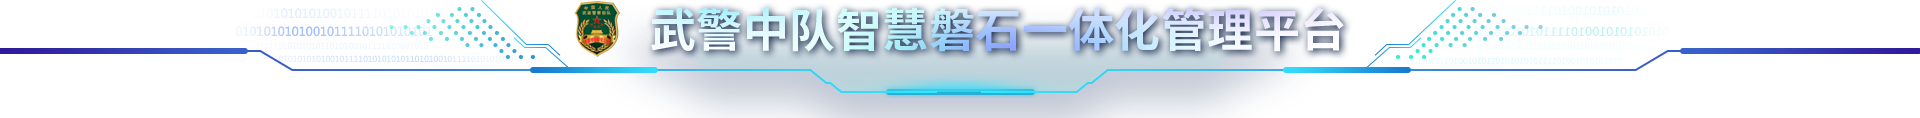
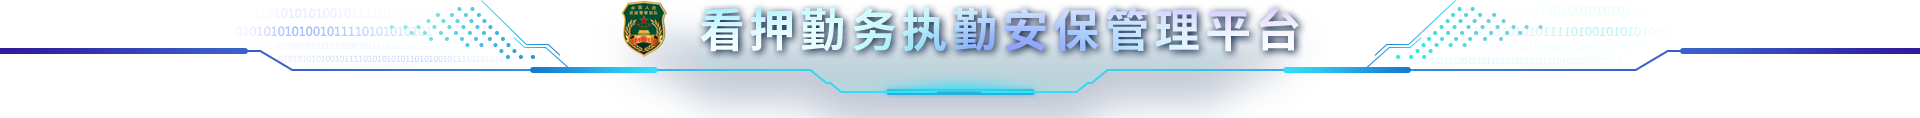
改logo

Changed region(s): [[0.2812, 0.0, 0.7188, 0.4831]]

diff --git a/page/login/login.css b/page/login/login.css
@@ -20,7 +20,7 @@ html,body{
     display: block;
     margin:0 auto;
     width: 56.25%;
-    max-width: 1080px;
+    max-width: 773px;
 }
 .form{
     width: 30.1%;
